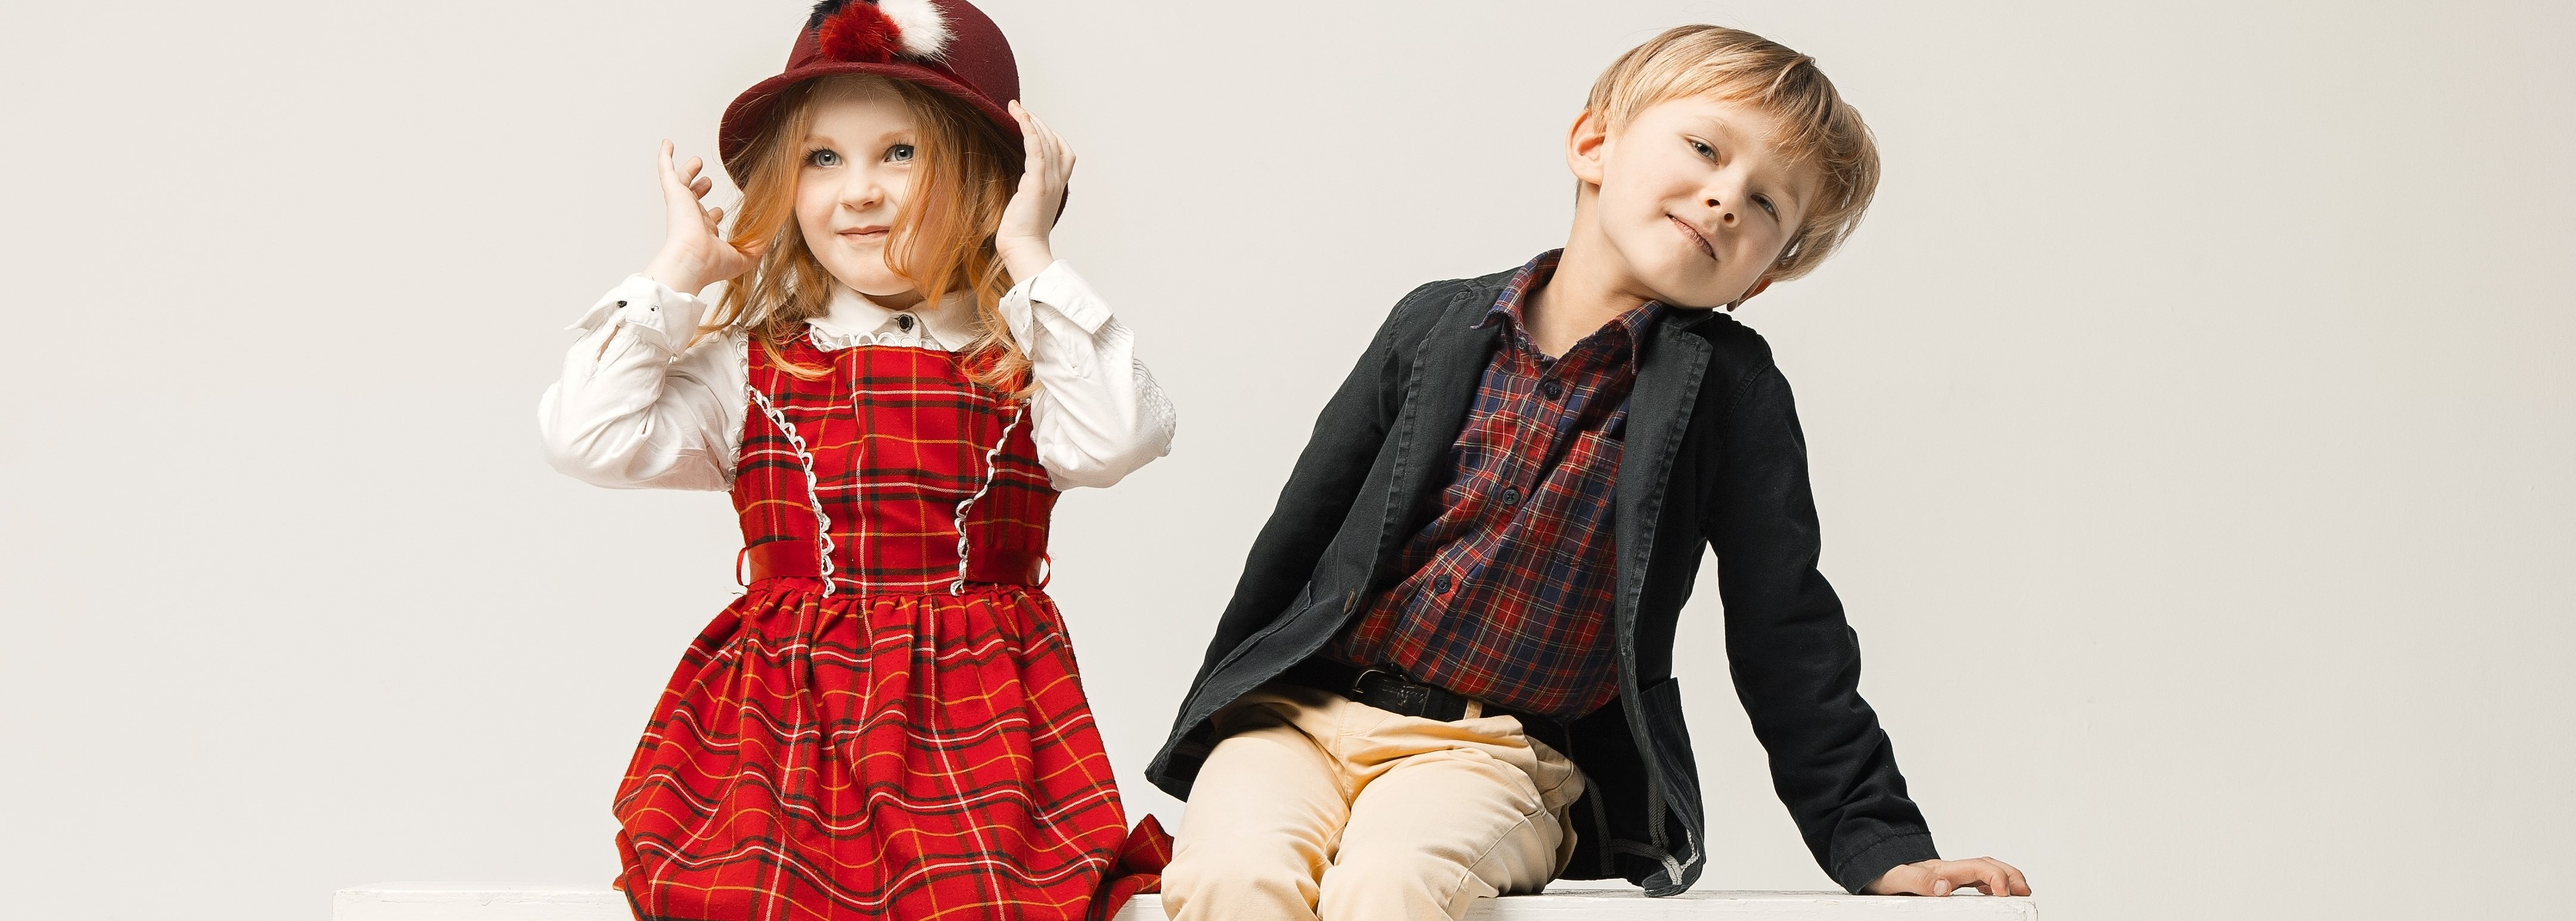
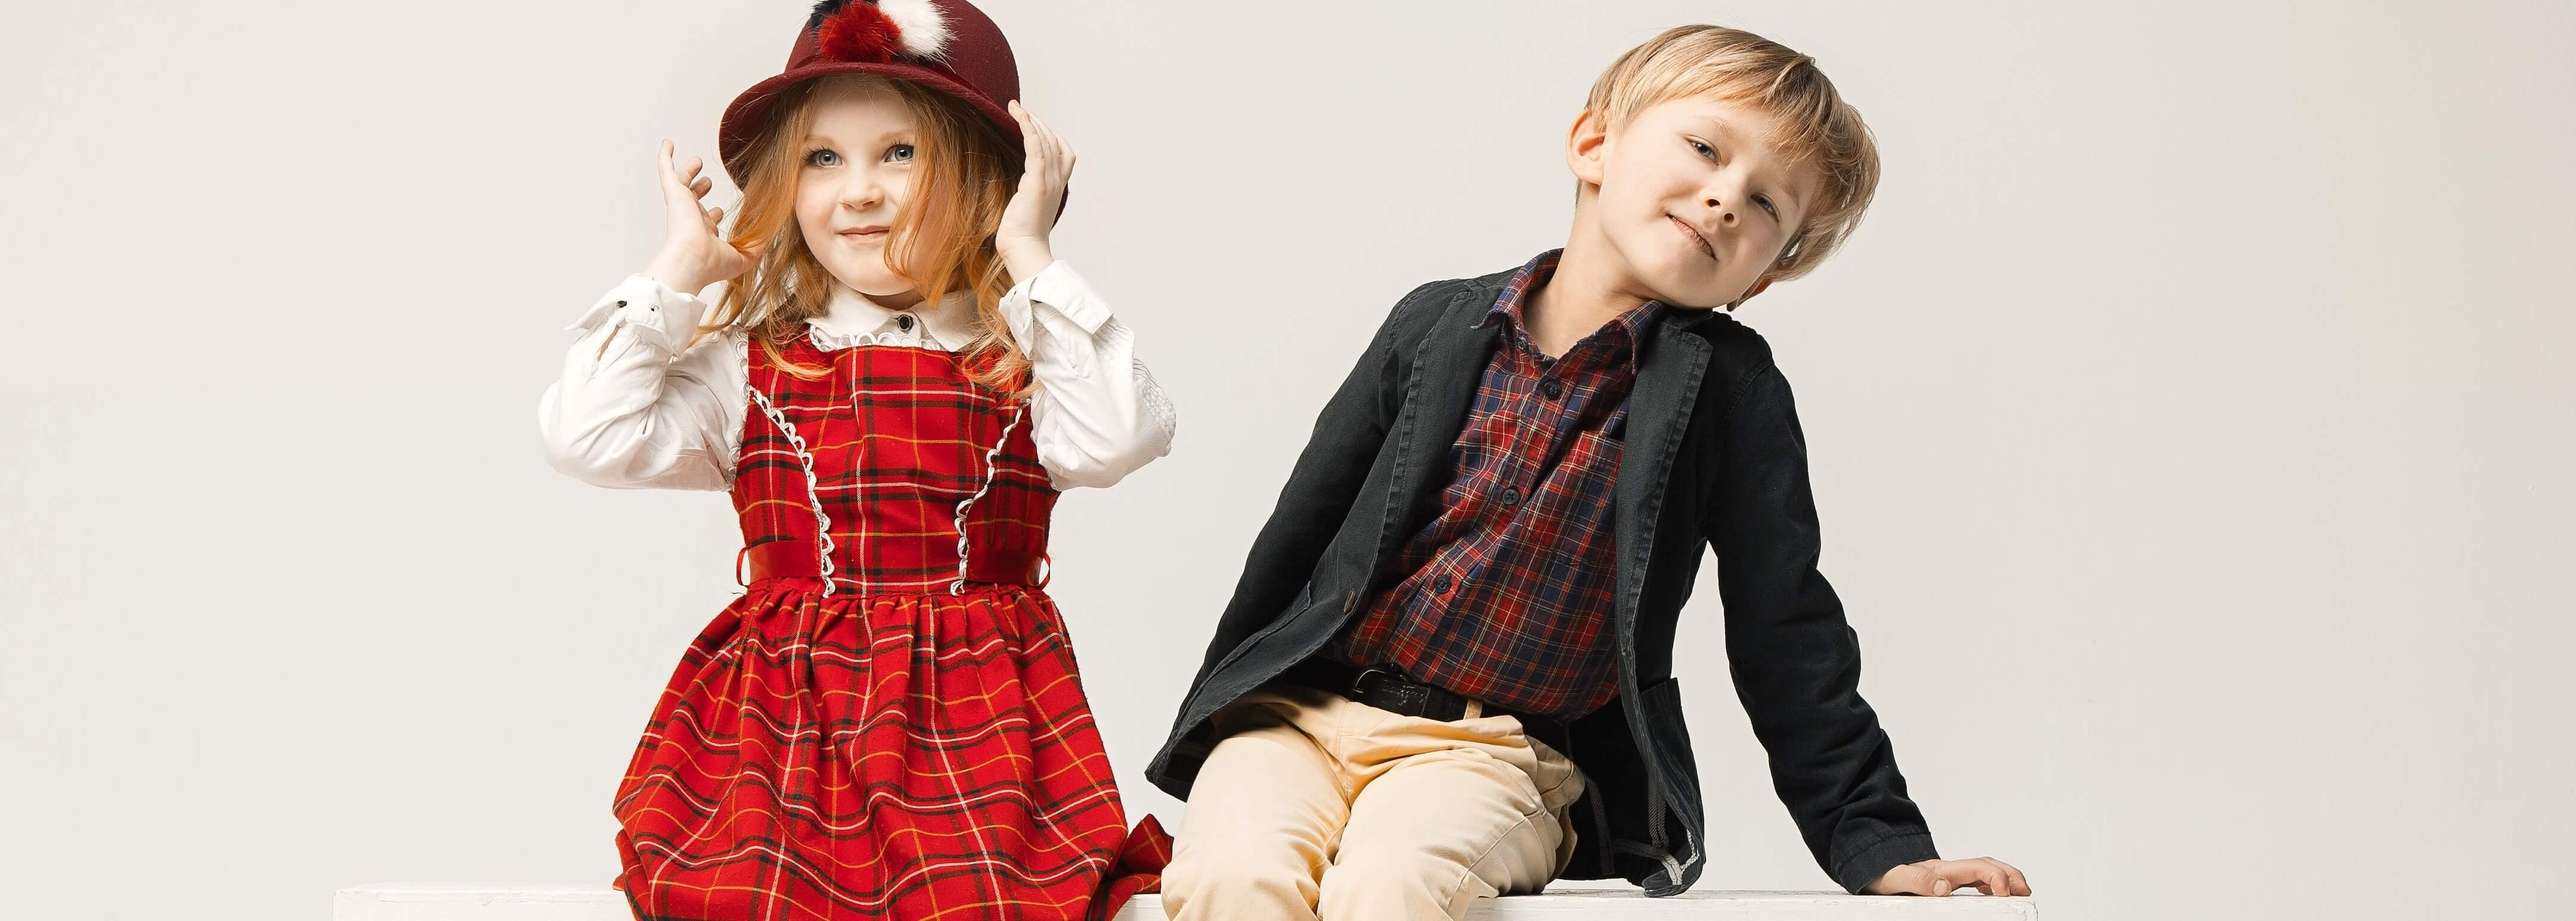
TinyIMAGES

diff --git a/src/app/login/login.component.css b/src/app/login/login.component.css
@@ -2,7 +2,7 @@
   font-family: "Roboto", sans-serif;
   width: 100%;
   height: 100vh;
-  background-image: url("/bg.png");
+  background-image: url("/bg.jpg");
   background-repeat: no-repeat;
   background-position: 0 90%;
   background-size: cover;

diff --git a/src/app/signup/signup.component.css b/src/app/signup/signup.component.css
@@ -2,7 +2,7 @@
   font-family: "Roboto", sans-serif;
   width: 100%;
   height: 100vh;
-  background-image: url("/bg.png");
+  background-image: url("/bg.jpg");
   background-repeat: no-repeat;
   background-position: 0 90%;
   background-size: cover;

diff --git a/src/app/home/home.component.css b/src/app/home/home.component.css
@@ -1,5 +1,5 @@
 .topBody-home {
-  background-image: url("/bg.png");
+  background-image: url("/bg.jpg");
   height: 100vh;
   width: 100%;
   background-repeat: no-repeat;
